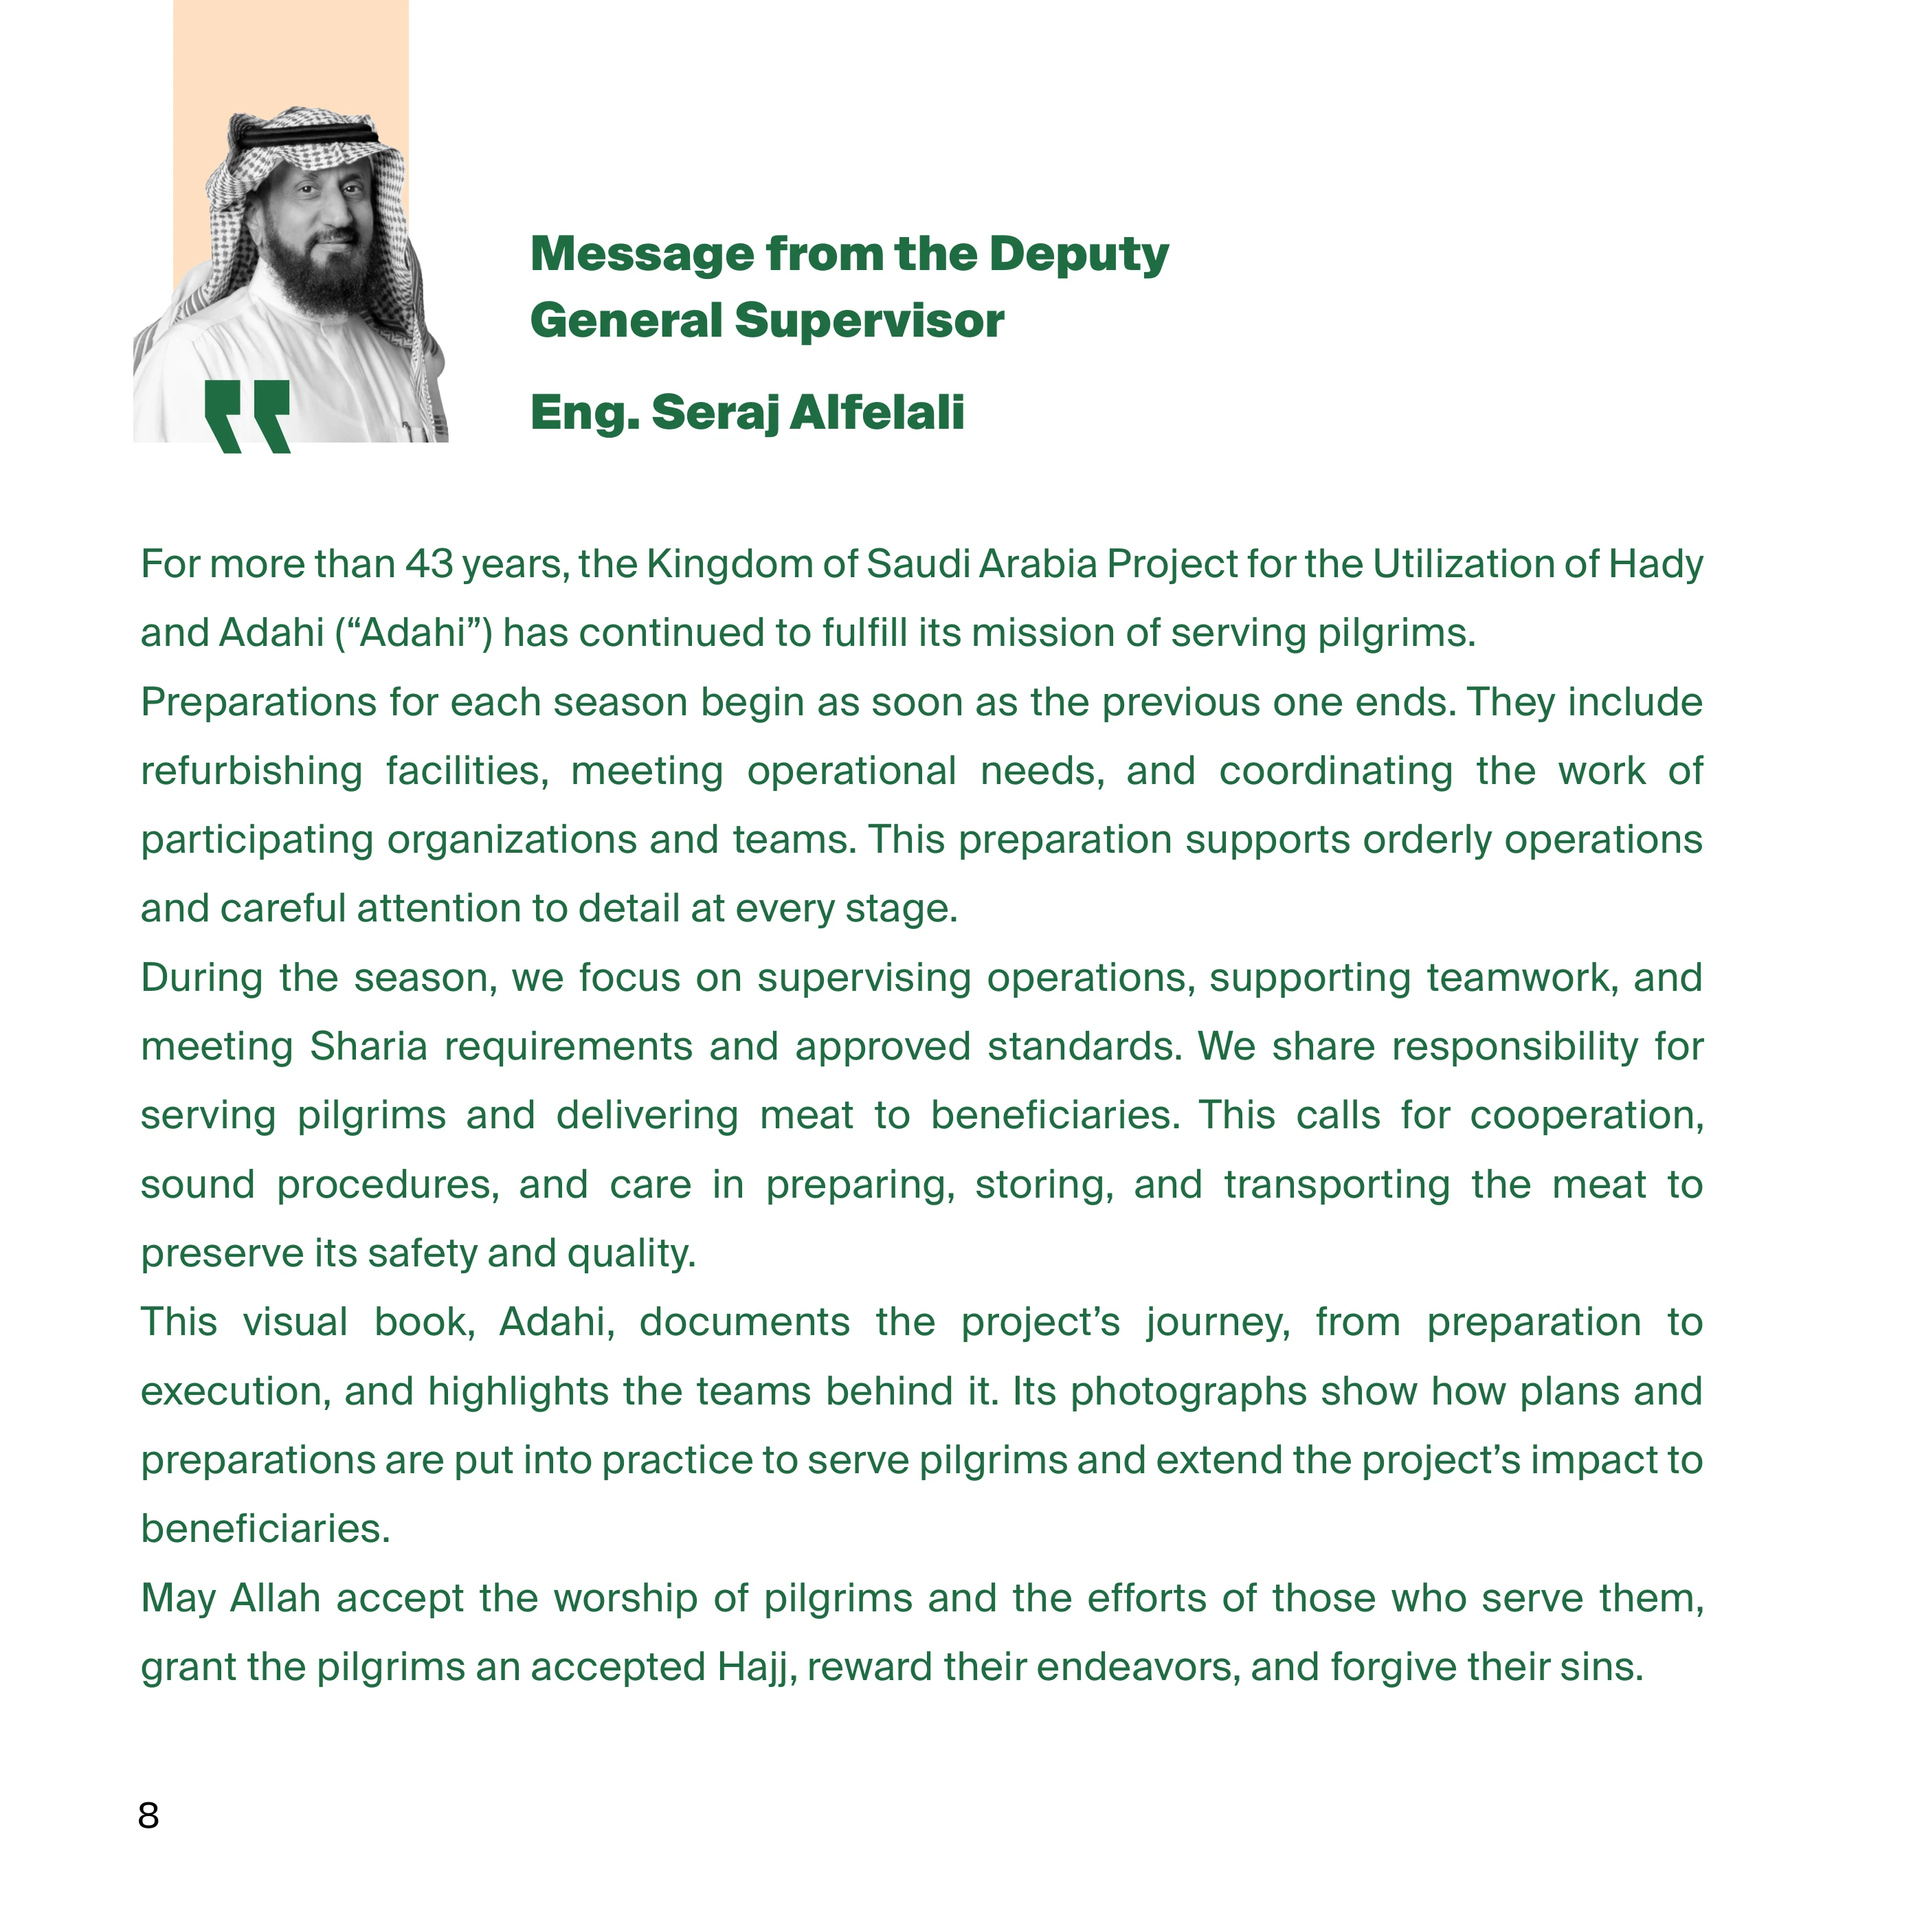
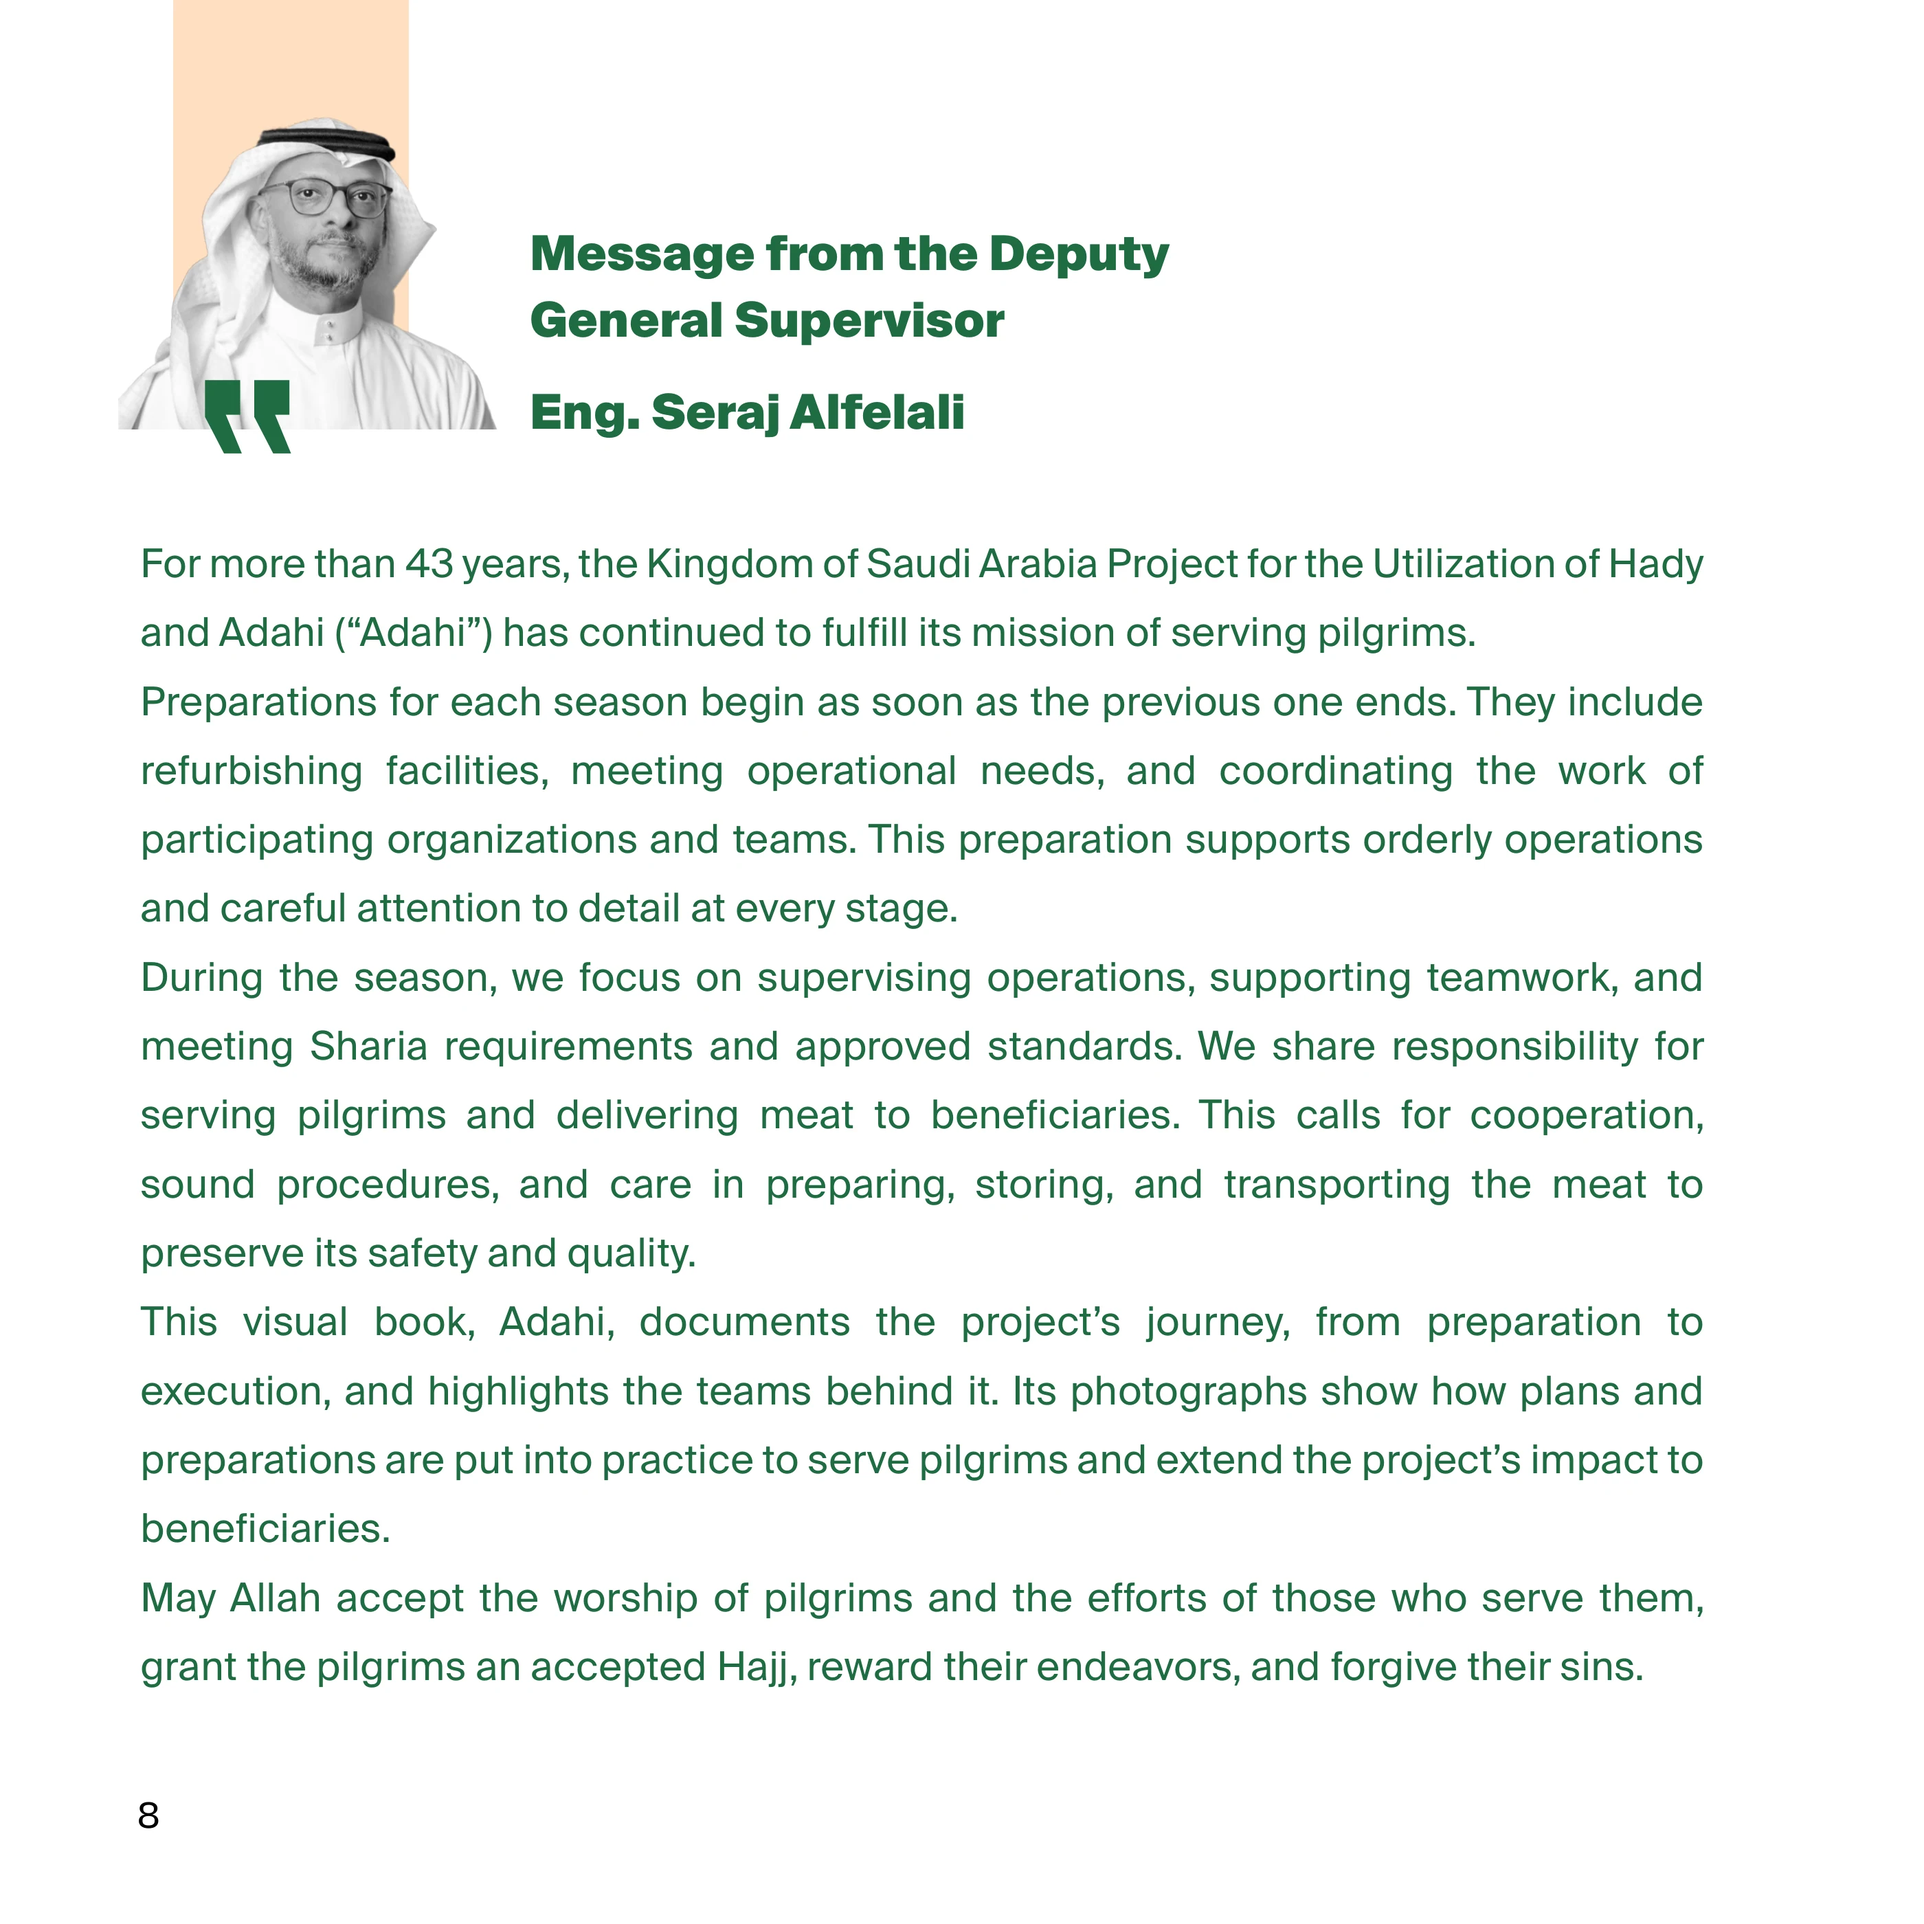
Update page 8 (PDF page 9) photo

Changed region(s): [[0.0621, 0.0311, 0.2486, 0.2486]]

diff --git a/index.html b/index.html
@@ -248,7 +248,7 @@ function shapeLeaf(L, theta, dir = 1, lead = 1){
 
 // pages/ = light 1400px images for every nearby leaf; pages-hd/ = 2800px for the open spread only
 // bump PAGE_VER whenever the page images are replaced, so no browser shows a cached page from an older edition
-const PAGE_VER = 2;
+const PAGE_VER = 3;
 const pageUrl = (n, hd) => `${hd ? 'pages-hd' : 'pages'}/p${String(n).padStart(3, '0')}.webp?v=${PAGE_VER}`;
 // A texture only goes on a page once its image is decoded; until then the page shows plain paper (never black).
 function pageTexture(n, mirror, hd = false){
